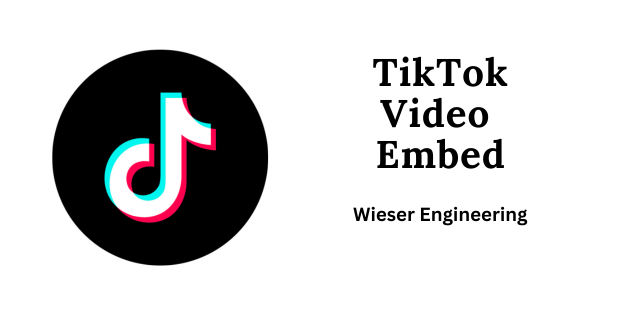
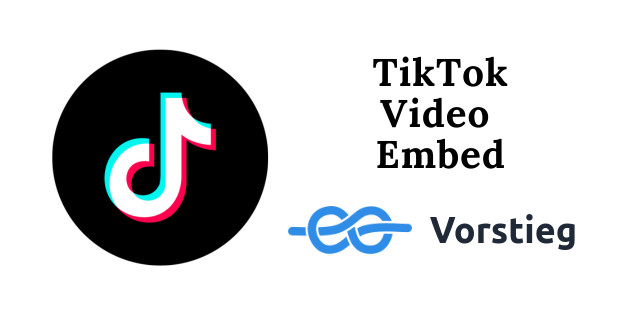
Change Author & Website

Changed region(s): [[0.4524, 0.6571, 0.9349, 0.8286]]

diff --git a/website_tiktok_embed/__manifest__.py b/website_tiktok_embed/__manifest__.py
@@ -2,7 +2,8 @@
     'name': "TikTok embed",
     'version': '1.0',
     'depends': ['website', 'web_editor'],
-    'author': "Benjamin Wieser",
+    'author': "Vorstieg Software FlexCo",
+    'website': "https://www.vorstieg.eu",
     'category': 'Website/Website',
     'description': """
     This extention allowes easy embedding of TikTok videos
